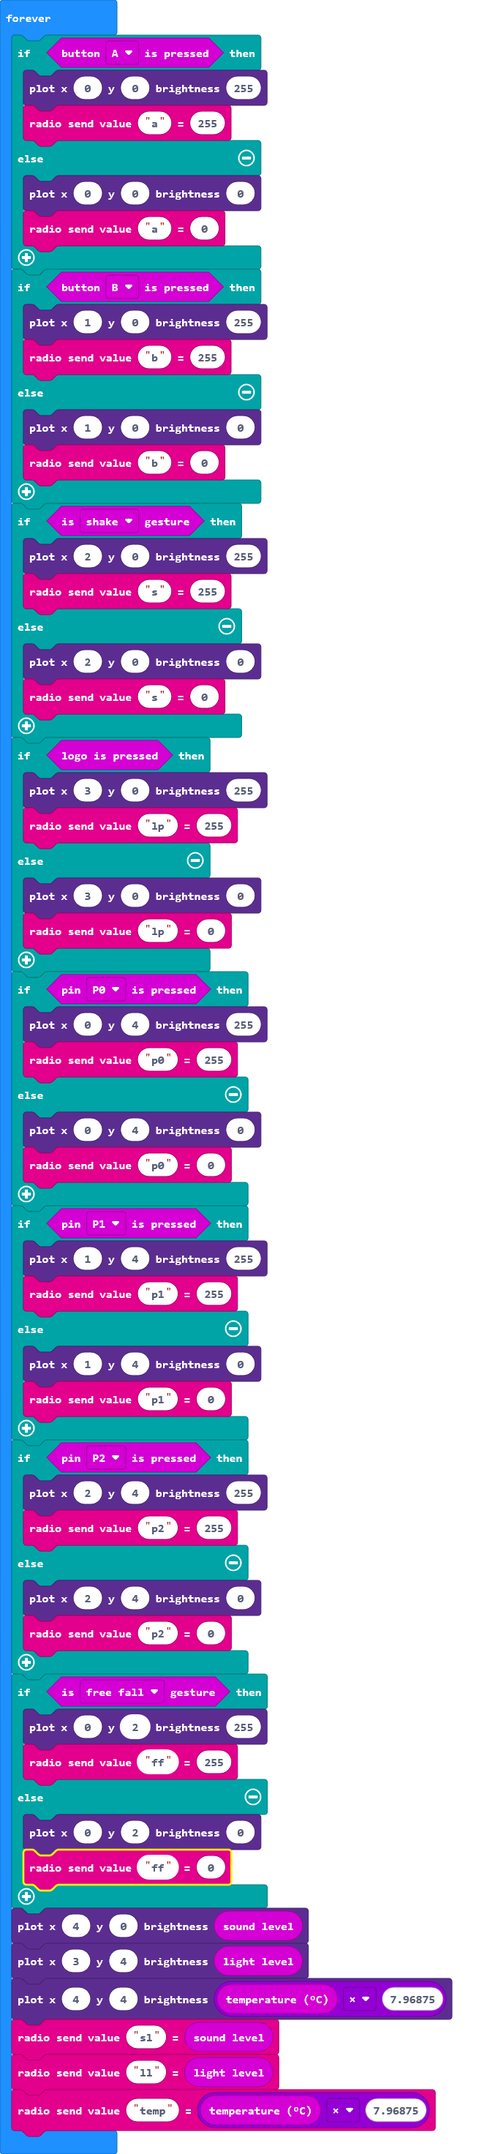
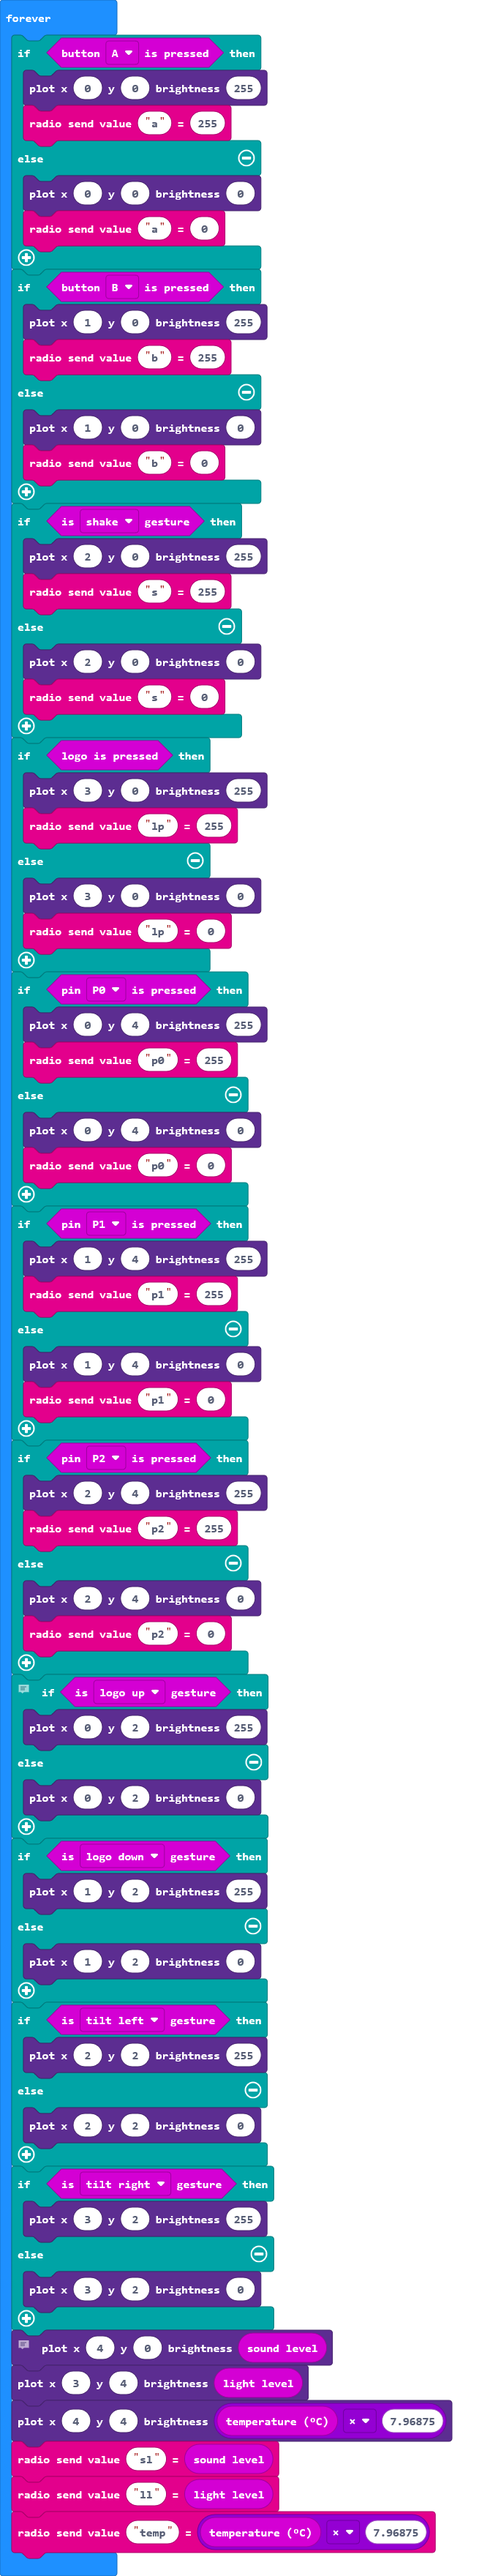
versionDisplay

diff --git a/main.ts b/main.ts
@@ -1,79 +1,91 @@
+let isVersionDisplay = false
+
 basic.forever(function () {
-    if (input.buttonIsPressed(Button.A)) {
-        led.plotBrightness(0, 0, 255)
-        radio.sendValue("a", 255)
-    } else {
-        led.plotBrightness(0, 0, 0)
-        radio.sendValue("a", 0)
+    if (!isVersionDisplay) {
+        if (input.buttonIsPressed(Button.A)) {
+            led.plotBrightness(0, 0, 255)
+            radio.sendValue("a", 255)
+        } else {
+            led.plotBrightness(0, 0, 0)
+            radio.sendValue("a", 0)
+        }
+        if (input.buttonIsPressed(Button.B)) {
+            led.plotBrightness(1, 0, 255)
+            radio.sendValue("b", 255)
+        } else {
+            led.plotBrightness(1, 0, 0)
+            radio.sendValue("b", 0)
+        }
+        if (input.isGesture(Gesture.Shake)) {
+            led.plotBrightness(2, 0, 255)
+           radio.sendValue("s", 255)
+        } else {
+            led.plotBrightness(2, 0, 0)
+            radio.sendValue("s", 0)
+        }
+        if (input.logoIsPressed()) {
+           led.plotBrightness(3, 0, 255)
+            radio.sendValue("lp", 255)
+        } else {
+            led.plotBrightness(3, 0, 0)
+            radio.sendValue("lp", 0)
+        }
+        if (input.pinIsPressed(TouchPin.P0)) {
+            led.plotBrightness(0, 4, 255)
+            radio.sendValue("p0", 255)
+        } else {
+            led.plotBrightness(0, 4, 0)
+            radio.sendValue("p0", 0)
+        }
+        if (input.pinIsPressed(TouchPin.P1)) {
+            led.plotBrightness(1, 4, 255)
+            radio.sendValue("p1", 255)
+        } else {
+            led.plotBrightness(1, 4, 0)
+            radio.sendValue("p1", 0)
+        }
+        if (input.pinIsPressed(TouchPin.P2)) {
+            led.plotBrightness(2, 4, 255)
+            radio.sendValue("p2", 255)
+        } else {
+            led.plotBrightness(2, 4, 0)
+            radio.sendValue("p2", 0)
+        }
+        // These last few ifs have no radio sending, this is because we don't have the space on the line to send the data over to another Micro:Bit
+        if (input.isGesture(Gesture.LogoUp)) {
+            led.plotBrightness(0, 2, 255)
+        } else {
+            led.plotBrightness(0, 2, 0)
+        }
+        if (input.isGesture(Gesture.LogoDown)) {
+            led.plotBrightness(1, 2, 255)
+        } else {
+            led.plotBrightness(1, 2, 0)
+        }
+        if (input.isGesture(Gesture.TiltLeft)) {
+            led.plotBrightness(2, 2, 255)
+        } else {
+            led.plotBrightness(2, 2, 0)
+        }
+        if (input.isGesture(Gesture.TiltRight)) {
+            led.plotBrightness(3, 2, 255)
+        } else {
+            led.plotBrightness(3, 2, 0)
+        }
+        // No pixel setting on 4, 2 because the events I had planned didn't work, unfortunately.
+        led.plotBrightness(4, 0, input.soundLevel())
+        led.plotBrightness(3, 4, input.lightLevel())
+        led.plotBrightness(4, 4, input.temperature() * 7.96875)
+        radio.sendValue("sl", input.soundLevel())
+        radio.sendValue("ll", input.lightLevel())
+        radio.sendValue("temp", input.temperature() * 7.96875)
     }
-    if (input.buttonIsPressed(Button.B)) {
-        led.plotBrightness(1, 0, 255)
-        radio.sendValue("b", 255)
-    } else {
-        led.plotBrightness(1, 0, 0)
-        radio.sendValue("b", 0)
-    }
-    if (input.isGesture(Gesture.Shake)) {
-        led.plotBrightness(2, 0, 255)
-        radio.sendValue("s", 255)
-    } else {
-        led.plotBrightness(2, 0, 0)
-        radio.sendValue("s", 0)
-    }
-    if (input.logoIsPressed()) {
-        led.plotBrightness(3, 0, 255)
-        radio.sendValue("lp", 255)
-    } else {
-        led.plotBrightness(3, 0, 0)
-        radio.sendValue("lp", 0)
-    }
-    if (input.pinIsPressed(TouchPin.P0)) {
-        led.plotBrightness(0, 4, 255)
-        radio.sendValue("p0", 255)
-    } else {
-        led.plotBrightness(0, 4, 0)
-        radio.sendValue("p0", 0)
-    }
-    if (input.pinIsPressed(TouchPin.P1)) {
-        led.plotBrightness(1, 4, 255)
-        radio.sendValue("p1", 255)
-    } else {
-        led.plotBrightness(1, 4, 0)
-        radio.sendValue("p1", 0)
-    }
-    if (input.pinIsPressed(TouchPin.P2)) {
-        led.plotBrightness(2, 4, 255)
-        radio.sendValue("p2", 255)
-    } else {
-        led.plotBrightness(2, 4, 0)
-        radio.sendValue("p2", 0)
-    }
-    // These last few ifs have no radio sending, this is because we don't have the space on the line to send the data over to another Micro:Bit
-    if (input.isGesture(Gesture.LogoUp)) {
-        led.plotBrightness(0, 2, 255)
-    } else {
-        led.plotBrightness(0, 2, 0)
-    }
-    if (input.isGesture(Gesture.LogoDown)) {
-        led.plotBrightness(1, 2, 255)
-    } else {
-        led.plotBrightness(1, 2, 0)
-    }
-    if (input.isGesture(Gesture.TiltLeft)) {
-        led.plotBrightness(2, 2, 255)
-    } else {
-        led.plotBrightness(2, 2, 0)
-    }
-    if (input.isGesture(Gesture.TiltRight)) {
-        led.plotBrightness(3, 2, 255)
-    } else {
-        led.plotBrightness(3, 2, 0)
-    }
-    // No pixel setting on 4, 2 because the events I had planned didn't work, unfortunately.
-    led.plotBrightness(4, 0, input.soundLevel())
-    led.plotBrightness(3, 4, input.lightLevel())
-    led.plotBrightness(4, 4, input.temperature() * 7.96875)
-    radio.sendValue("sl", input.soundLevel())
-    radio.sendValue("ll", input.lightLevel())
-    radio.sendValue("temp", input.temperature() * 7.96875)
+})
+
+input.onButtonPressed(Button.AB, function() {
+    isVersionDisplay = true
+
+    basic.showString("1.0")
+
+    isVersionDisplay = false
 })
